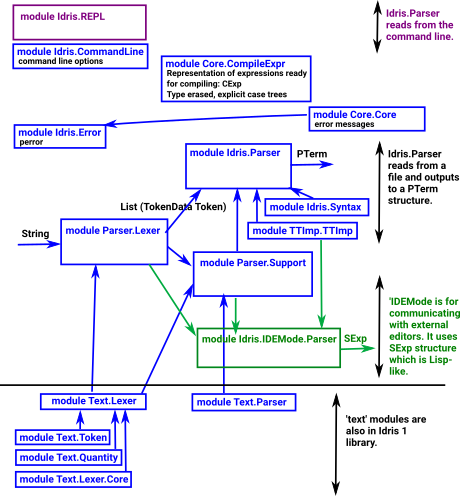
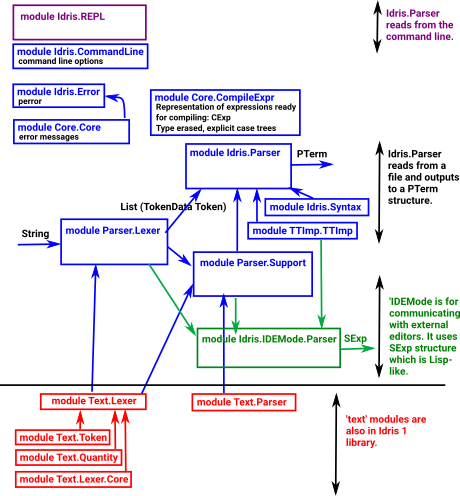
tidy up parser library documentation

diff --git a/docs/parserLibrary/parser.rst b/docs/parserLibrary/parser.rst
@@ -12,14 +12,14 @@ To run our parser we call 'parse'. This requires a Grammar and the output from t
 
 If successful this returns 'Right' with a pair of
 
-- the parse result
-- the unparsed tokens (the remaining input)
+- the parse result.
+- the unparsed tokens (the remaining input).
 
 otherwise it returns 'Left' with the error message.
 
 So we need to define the Grammar for our parser, this is done using the following
-'Grammar' data structure, this is a combinator structure similar in principle to the
-recogniser combinator for the lexer which was discussed on the previous page.
+'Grammar' data structure. This is a combinator structure, similar in principle to the
+recogniser combinator for the lexer, which was discussed on the previous page.
 
 As with the Recogniser the Grammar type is dependent on a boolean 'consumes'
 value which allows us to ensure that complicated Grammar structures will always
@@ -71,28 +71,31 @@ Parser Example
 On the previous page we implemented a lexer to 'lex' a very simple expression, on
 this page we will go on to implement a parser for this running example.
 
-Expressed in Backus–Naur form (BNF) the syntax we are aiming at is something
-like this:
+.. list-table::
 
-.. code-block:: idris
+  * - Expressed in Backus–Naur form (BNF) the syntax we are aiming at is something
+      like this:
+    - .. code-block:: idris
 
-  <expr> ::= <integer literal>
+         <expr> ::= <integer literal>
           |  <expr>'+'<expr>
           |  <expr>'-'<expr>
           |  <expr>'*'<expr>
           |  '('<expr>')'
 
-  <integer literal> ::= <digit>|<integer literal><digit>
+         <integer literal> ::= <digit>|<integer literal><digit>
 
-To start, here is a Grammar to parse an integer literal (that is, a sequence of
-numbers).
+.. list-table::
 
-.. code-block:: idris
+  * - To start, here is a Grammar to parse an integer literal (that is, a
+      sequence of numbers).
 
-  export
-  intLiteral : Rule Integer
-  intLiteral
-    = terminal (\x => case tok x of
+    - .. code-block:: idris
+
+         export
+         intLiteral : Rule Integer
+         intLiteral
+           = terminal (\x => case tok x of
                            Number i => Just i
                            _ => Nothing)
 
@@ -137,33 +140,41 @@ successful, this is because we are not specifically checking for end-of-file.
                          (Integer, List (TokenData ExpressionToken))
   *parserEx> 
 
-The 'intLiteral' function above uses the 'terminal' function to construct
-the grammar, this is defined here
+.. list-table::
+
+  * - The 'intLiteral' function above uses the 'terminal' function to
+      construct the grammar
+    - .. code-block:: idris
+
+        ||| Succeeds if running the predicate on the
+        ||| next token returns Just x, returning x.
+        ||| Otherwise fails.
+        export
+        terminal : (tok -> Maybe a) -> Grammar tok True a
+        terminal = Terminal
+
+This is defined here
 : https://github.com/idris-lang/Idris-dev/blob/master/libs/contrib/Text/Parser/Core.idr
 Idris 2 uses a slightly different version which stores an error message like
 "Expected integer literal" which can be output if the rule fails
 : https://github.com/edwinb/Idris2/blob/master/src/Text/Parser/Core.idr
 
-.. code-block:: idris
+.. list-table::
 
-  ||| Succeeds if running the predicate on the next token returns Just x,
-  ||| returning x. Otherwise fails.
-  export
-  terminal : (tok -> Maybe a) -> Grammar tok True a
-  terminal = Terminal
+  * - The 'terminal' function is also used to construct the other
+      elements of the grammar that we require, for instance,
+      opening parenthesis:
 
-The 'terminal' function is also used to construct the other elements of the
-grammar that we require, for instance, opening parenthesis:
+    - .. code-block:: idris
 
-.. code-block:: idris
-
-  openParen : Rule Integer
-  openParen = terminal (\x => case tok x of
+         openParen : Rule Integer
+         openParen = terminal (\x => case tok x of
                            OParen => Just 0
                            _ => Nothing)
 
 Integer value is not really relevant for parenthesis so '0' is used as
 a default value.
+
 As before, we can test this out with a function like this:
 
 .. code-block:: idris
@@ -236,42 +247,49 @@ token lists are not:
                      OParen]) : Either (ParseError (TokenData ExpressionToken))
                                        (Integer, List (TokenData ExpressionToken))
 
-The closing parenthesis is constructed in the same way.
+.. list-table::
 
-.. code-block:: idris
+  * - The closing parenthesis is constructed in the same way.
 
-  closeParen : Rule Integer
-  closeParen = terminal (\x => case tok x of
+    - .. code-block:: idris
+
+        closeParen : Rule Integer
+        closeParen = terminal (\x => case tok x of
                            CParen => Just 0
                            _ => Nothing)
 
-Now we can generate a Grammar for an expression inside parenthesis like this.
+.. list-table::
 
-.. code-block:: idris
+  * - Now we can generate a Grammar for an expression inside parenthesis like this.
 
-  paren : Rule Integer -> Rule Integer
-  paren exp = openParen *> exp <* closeParen
+    - .. code-block:: idris
+
+        paren : Rule Integer -> Rule Integer
+        paren exp = openParen *> exp <* closeParen
 
 The use of '*>' and '<*' instead of '<*>' is an easy way to use the integer
 value from the inner expression.
 
-Now for the operations, in this case: '+', '-' and '*'.
-The syntax we require is that operators like '+' are infix operators, which
-would require a definition like this:
+.. list-table::
 
-.. code-block:: idris
+  * - Now for the operations, in this case: '+', '-' and '*'.
+      The syntax we require is that operators like '+' are infix operators, which
+      would require a definition like this:
 
-  expr = (add expr (op "+") expr)
+    - .. code-block:: idris
+
+        expr = (add expr (op "+") expr)
 
 This is a potentially infinite structure which is not total.
-In order to work up to this gradually I will start with prefix operators (sometimes known as Polish notation)
-then modify later for infix operators.
+In order to work up to this gradually I will start with prefix operators (sometimes known as Polish notation) then modify later for infix operators.
 
-So prefix operators would have this sort of form:
+.. list-table::
 
-.. code-block:: idris
+  * - So prefix operators would have this sort of form:
 
-  expr = (add (op "+") expr expr)
+    - .. code-block:: idris
+
+        expr = (add (op "+") expr expr)
 
 where 'op' is defined like this:
 
@@ -284,19 +302,21 @@ where 'op' is defined like this:
                            (Operator s1) => if s==s1 then Just 0 else Nothing
                            _ => Nothing)
 
-and 'add' is defined like this:
+.. list-table::
 
-.. code-block:: idris
+  * - and 'add' is defined like this:
 
-  addInt : Integer -> Integer -> Integer
-  addInt a b = a+b
+    - .. code-block:: idris
 
-  export
-  add : Grammar tok c1 Integer ->
-      Grammar tok c2 Integer ->
-      Grammar tok c3 Integer ->
-      Grammar tok ((c1 || c2) || c3) Integer
-  add x y z = map addInt (x *> y) <*> z
+        addInt : Integer -> Integer -> Integer
+        addInt a b = a+b
+
+        export
+        add : Grammar tok c1 Integer ->
+            Grammar tok c2 Integer ->
+            Grammar tok c3 Integer ->
+            Grammar tok ((c1 || c2) || c3) Integer
+        add x y z = map addInt (x *> y) <*> z
 
 Where:
 
@@ -343,22 +363,26 @@ partial as it is a potentially infinite structure and so not total.
        <|> (mult (op "*") expr expr)
        <|> intLiteral <|> (paren expr)
 
-To make the testing easier we can use this function:
+.. list-table::
 
-.. code-block:: idris
+  * - To make the testing easier we can use this function:
 
-  partial
-  test : String -> Either (ParseError (TokenData ExpressionToken))
+    - .. code-block:: idris
+
+        partial
+        test : String -> Either (ParseError (TokenData ExpressionToken))
                         (Integer, List (TokenData ExpressionToken))
-  test s = parse expr (fst (lex expressionTokens s))
+        test s = parse expr (fst (lex expressionTokens s))
 
-First test a valid (prefix) expression:
+.. list-table::
 
-.. code-block:: idris
+  * - First test a valid (prefix) expression:
 
-  *parserEx> test "+1*6(4)"
-  Right (25,
-       []) : Either (ParseError (TokenData ExpressionToken))
+    - .. code-block:: idris
+
+        *parserEx> test "+1*6(4)"
+        Right (25,
+             []) : Either (ParseError (TokenData ExpressionToken))
                     (Integer, List (TokenData ExpressionToken))
 
 Then an invalid syntax:

diff --git a/docs/parserLibrary/lexer.rst b/docs/parserLibrary/lexer.rst
@@ -26,8 +26,7 @@ In order to construct this list of tokens we need:
 - A way to recognise the tokens in the input string.
 - A way to construct these individual tokens.
 
-This is given by the TokenMap. This is a  mapping from lexers to the tokens
-they produce. This is a list of pairs:
+This is given by the TokenMap which is a list of pairs containing this information:
 
 .. code-block:: idris
 
@@ -108,7 +107,7 @@ If a recogniser does not consume input there is a danger of an infinite loop.
 To prevent this the recogniser is dependent on a boolean called 'consumes' which
 is true if the recogniser is guaranteed to consume at least one character.
 
-The constructors of Recognise allow us to ensure that, event though parts of
+The constructors of Recognise allow us to ensure that, even though parts of
 the recogniser may not consume, overall the recogniser will consume.
 
 Since 'Recognise True' is more common than 'Recognise False' it is convenient to
@@ -133,12 +132,12 @@ when the indent decreases.
 
 This topic needs to be more fully expanded here. Until someone does that, a
 possible way to get more information is to see how it is done in Idris 2
-_`here`: https://github.com/edwinb/Idris2/blob/master/src/Parser/Lexer.idr
+: https://github.com/edwinb/Idris2/blob/master/src/Parser/Lexer.idr
 
 Simple Expression Example for Lexer
 -----------------------------------
 
-On this page we will implement a lexer to lex a very simple expression as
+On this page we will implement a lexer to 'lex' a very simple expression as
 a running example, on the next page, we will go on to implement a parser for it.
 
 First import the lexer and parser code:
@@ -268,7 +267,7 @@ input string as parameters:
                                Int,
                                String)
 
-The lexer uses potentially infinite data structures. It has recursive arguments (codata type) so code is lazy. In the example the indexes have not been computed but we can
+The lexer uses potentially infinite data structures. It has recursive arguments (codata type) so code is lazy. In the output above the indexes have not been computed but we can
 pick out the tokens:
 
 - (Number 1)

diff --git a/docs/parserLibrary/introduction.rst b/docs/parserLibrary/introduction.rst
@@ -52,13 +52,13 @@ Idris 2 has at least 3 compilers:
   PTerm (and eventually TT structure).
 - REPL - compiles input from the command line.
 
-The following diagram is my attempt to work out how the modules in Idris 2 fit together.
+The following diagram is my first attempt to work out how some of the modules in
+Idris 2 fit together (with a few of the dependencies between them shown). The
+Idris 1 library is based on the modules at the bottom of the diagram (shown
+in red).
 
 .. image:: ../image/parserModules.png
    :width: 460px
    :height: 496px
    :alt: diagram illustrating these stages of lexer and parser
-
-
-
 
